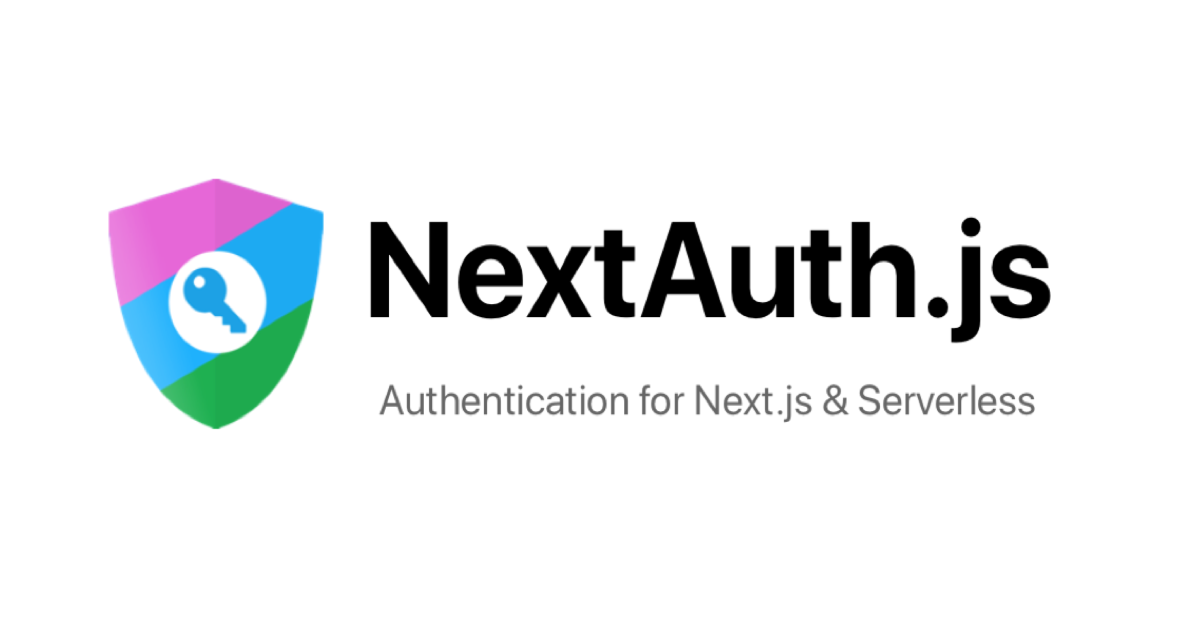
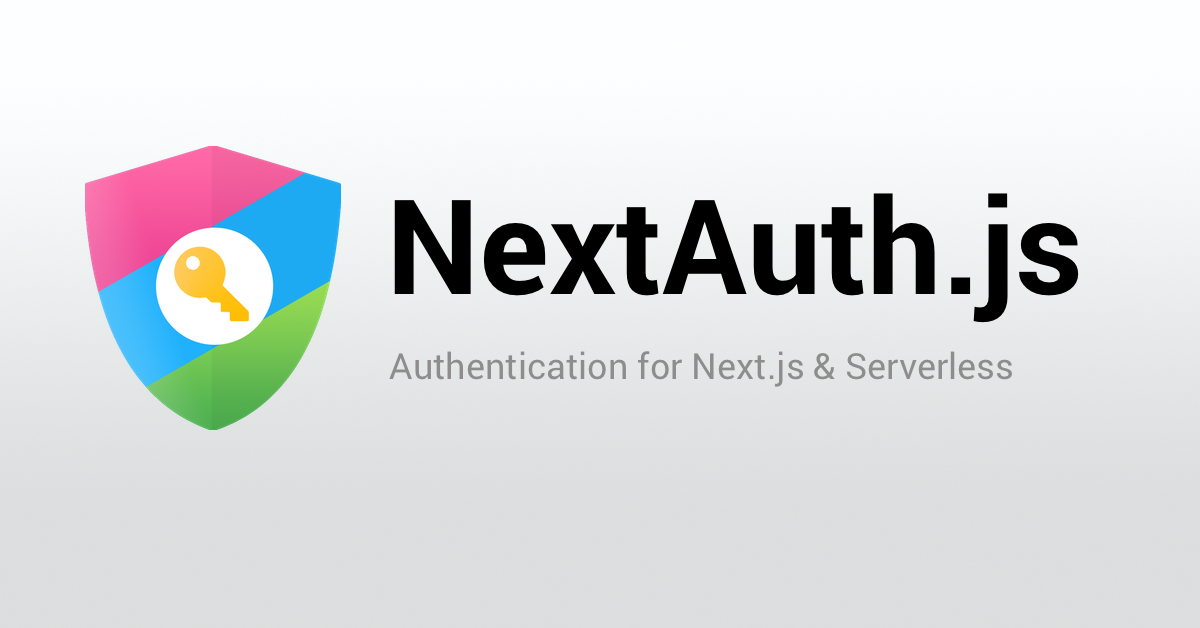
Website cosmetic refresh
Addressing quality issues with assets and layout

diff --git a/www/src/css/custom.css b/www/src/css/custom.css
@@ -42,6 +42,26 @@ a,
   font-weight: 600;
 }
 
+.menu__list .menu__list-item a:not(.menu__link--sublist) {
+  font-weight: normal;
+}
+
+.menu__list .menu__list-item a[href="#!"] {
+  font-weight: bold;
+  color: #444;
+}
+
+html[data-theme='dark'] .menu__list .menu__list-item a[href="#!"] {
+  color: #999;
+}
+
+.menu__list .menu__list-item a.menu__link.menu__link--active:not(.menu__link--sublist) {
+ background: var(--ifm-color-primary);
+ background: linear-gradient(0deg, var(--ifm-color-primary-darker) 0%, var(--ifm-color-primary) 100%);
+ color: #fff;
+ font-weight: normal;
+}
+
 .docusaurus-highlight-code-line {
   background-color: rgb(72, 77, 91);
   display: block;
@@ -78,7 +98,8 @@ a,
 }
 
 .navbar {
-  box-shadow: 0 0 .5rem rgba(0,0,0,.2)
+  box-shadow: 0 0 .5rem rgba(0,0,0,.2);
+  box-shadow: none;
 }
 
 .navbar__title {
@@ -97,38 +118,44 @@ a,
 }
 
 .hero {
-  margin-top: 2rem;
   background: none;
   color: black;
-  background: linear-gradient(0deg, rgba(222,222,222,0.4) 0%, rgba(255,255,255,0) 100%);
+  background: linear-gradient(0deg, rgba(222,222,222,.6) 0%, rgba(255,255,255,1) 100%);
 }
 
 html[data-theme='dark'] .hero {
-  background: linear-gradient(0deg, rgba(222,222,222,0.075) 0%, rgba(255,255,255,0) 100%);
+  background: linear-gradient(0deg, rgba(0,0,0,.6) 0%, rgba(35,35,35,1) 100%);
 }
 
 .hero .container {
-  margin-bottom: 2rem;
+  margin: 2rem auto;
 }
 
 .hero .hero__title {  
   font-size: 3rem;
   margin-bottom: 0.5rem;
+  text-shadow: 0 .15rem 0 rgba(255,255,255,1), 0 0 8rem rgba(0,0,0,.5);
 }
 
-@media screen and (min-width: 668px) {
+@media screen and (min-width: 689px) {
   .hero .hero__title {
+    text-align: left;
     font-size: 4.8rem;
   }
+}
+
+html[data-theme="dark"] .hero .hero__title {
+  text-shadow: 0 .15rem 0 rgba(255,255,255,.1), 0 0 5rem rgba(255,255,255,.5);
 }
 
 .hero .hero__subtitle {
   font-size: 1rem;
   margin-bottom: 1.5rem;
   opacity: 0.6;
+  font-weight: 500;
 }
 
-@media screen and (min-width: 668px) {
+@media screen and (min-width: 689px) {
   .hero .hero__subtitle {
     font-size: 1.5rem;
   }
@@ -210,21 +237,20 @@ html[data-theme='dark'] {
   --ifm-background-color: #1F201C;
 }
 
-.home-main .section-features {
-  xbackground-color: rgba(0,0,0,.05);
-}
-
 .home-main .feature-image-wrapper {
   display: inline-block;
   overflow: auto;
-  padding: 0.3rem;
+  padding: 0.6rem;
   border-radius: 10rem;
   overflow: visible;
-  background-color: #fff;
+  background-color: #f9f9f9;
+  background: var(--ifm-color-primary);
+  background: linear-gradient(0deg, var(--ifm-color-primary-darkest) 0%, var(--ifm-color-primary) 100%);
 }
 
 .home-main .feature-image-wrapper img {
-  zoom: 1;
+  filter: saturate(.25) contrast(2);
+  zoom: .9;
 }
 
 html[data-theme="dark"] .hero .hero__title,
@@ -237,4 +263,19 @@ html[data-theme="dark"] .hero .button:hover {
 
 html[data-theme='dark'] .footer.footer--dark {
   --ifm-footer-background-color: #242526;
+}
+
+.button {
+  border-width: .15rem;
+}
+
+.button--primary,
+.button--primary:hover {
+  background: linear-gradient(0deg, var(--ifm-color-primary-darker) 0%, var(--ifm-color-primary) 100%);
+  color: #fff;
+}
+
+.button--primary.button--outline {
+  background: transparent;
+  color: var(--ifm-color-primary);
 }

diff --git a/www/src/pages/styles.module.css b/www/src/pages/styles.module.css
@@ -19,20 +19,19 @@
 
 .heroLogo {
   margin-bottom: .5rem;  
-  width: 6rem;
+  width: 8rem;
 }
 
-@media screen and (min-width: 668px) {
+@media screen and (min-width: 689px) {
   .heroLogo {
-    margin-bottom: -.5rem;    
-    width: 8rem;
+    margin-bottom: -.5rem;
   }
 }
 
-@media screen and (min-width: 668px) {
+@media screen and (min-width: 689px) {
   .heroText {
     display: inline-block;
-    margin: 1rem 1.5rem 0 1.5rem;
+    margin: 1rem 1.5rem 0 2rem;
   }
 }
 

diff --git a/www/src/pages/index.js b/www/src/pages/index.js
@@ -77,7 +77,7 @@ function Home () {
       <header className={classnames('hero', styles.heroBanner)}>
         <div className='container'>
           <img
-            src='/img/logo/logo-with-icon-sm.png'
+            src='/img/logo/logo-sm.png'
             alt='Shield with key icon'
             className={styles.heroLogo}
           />
